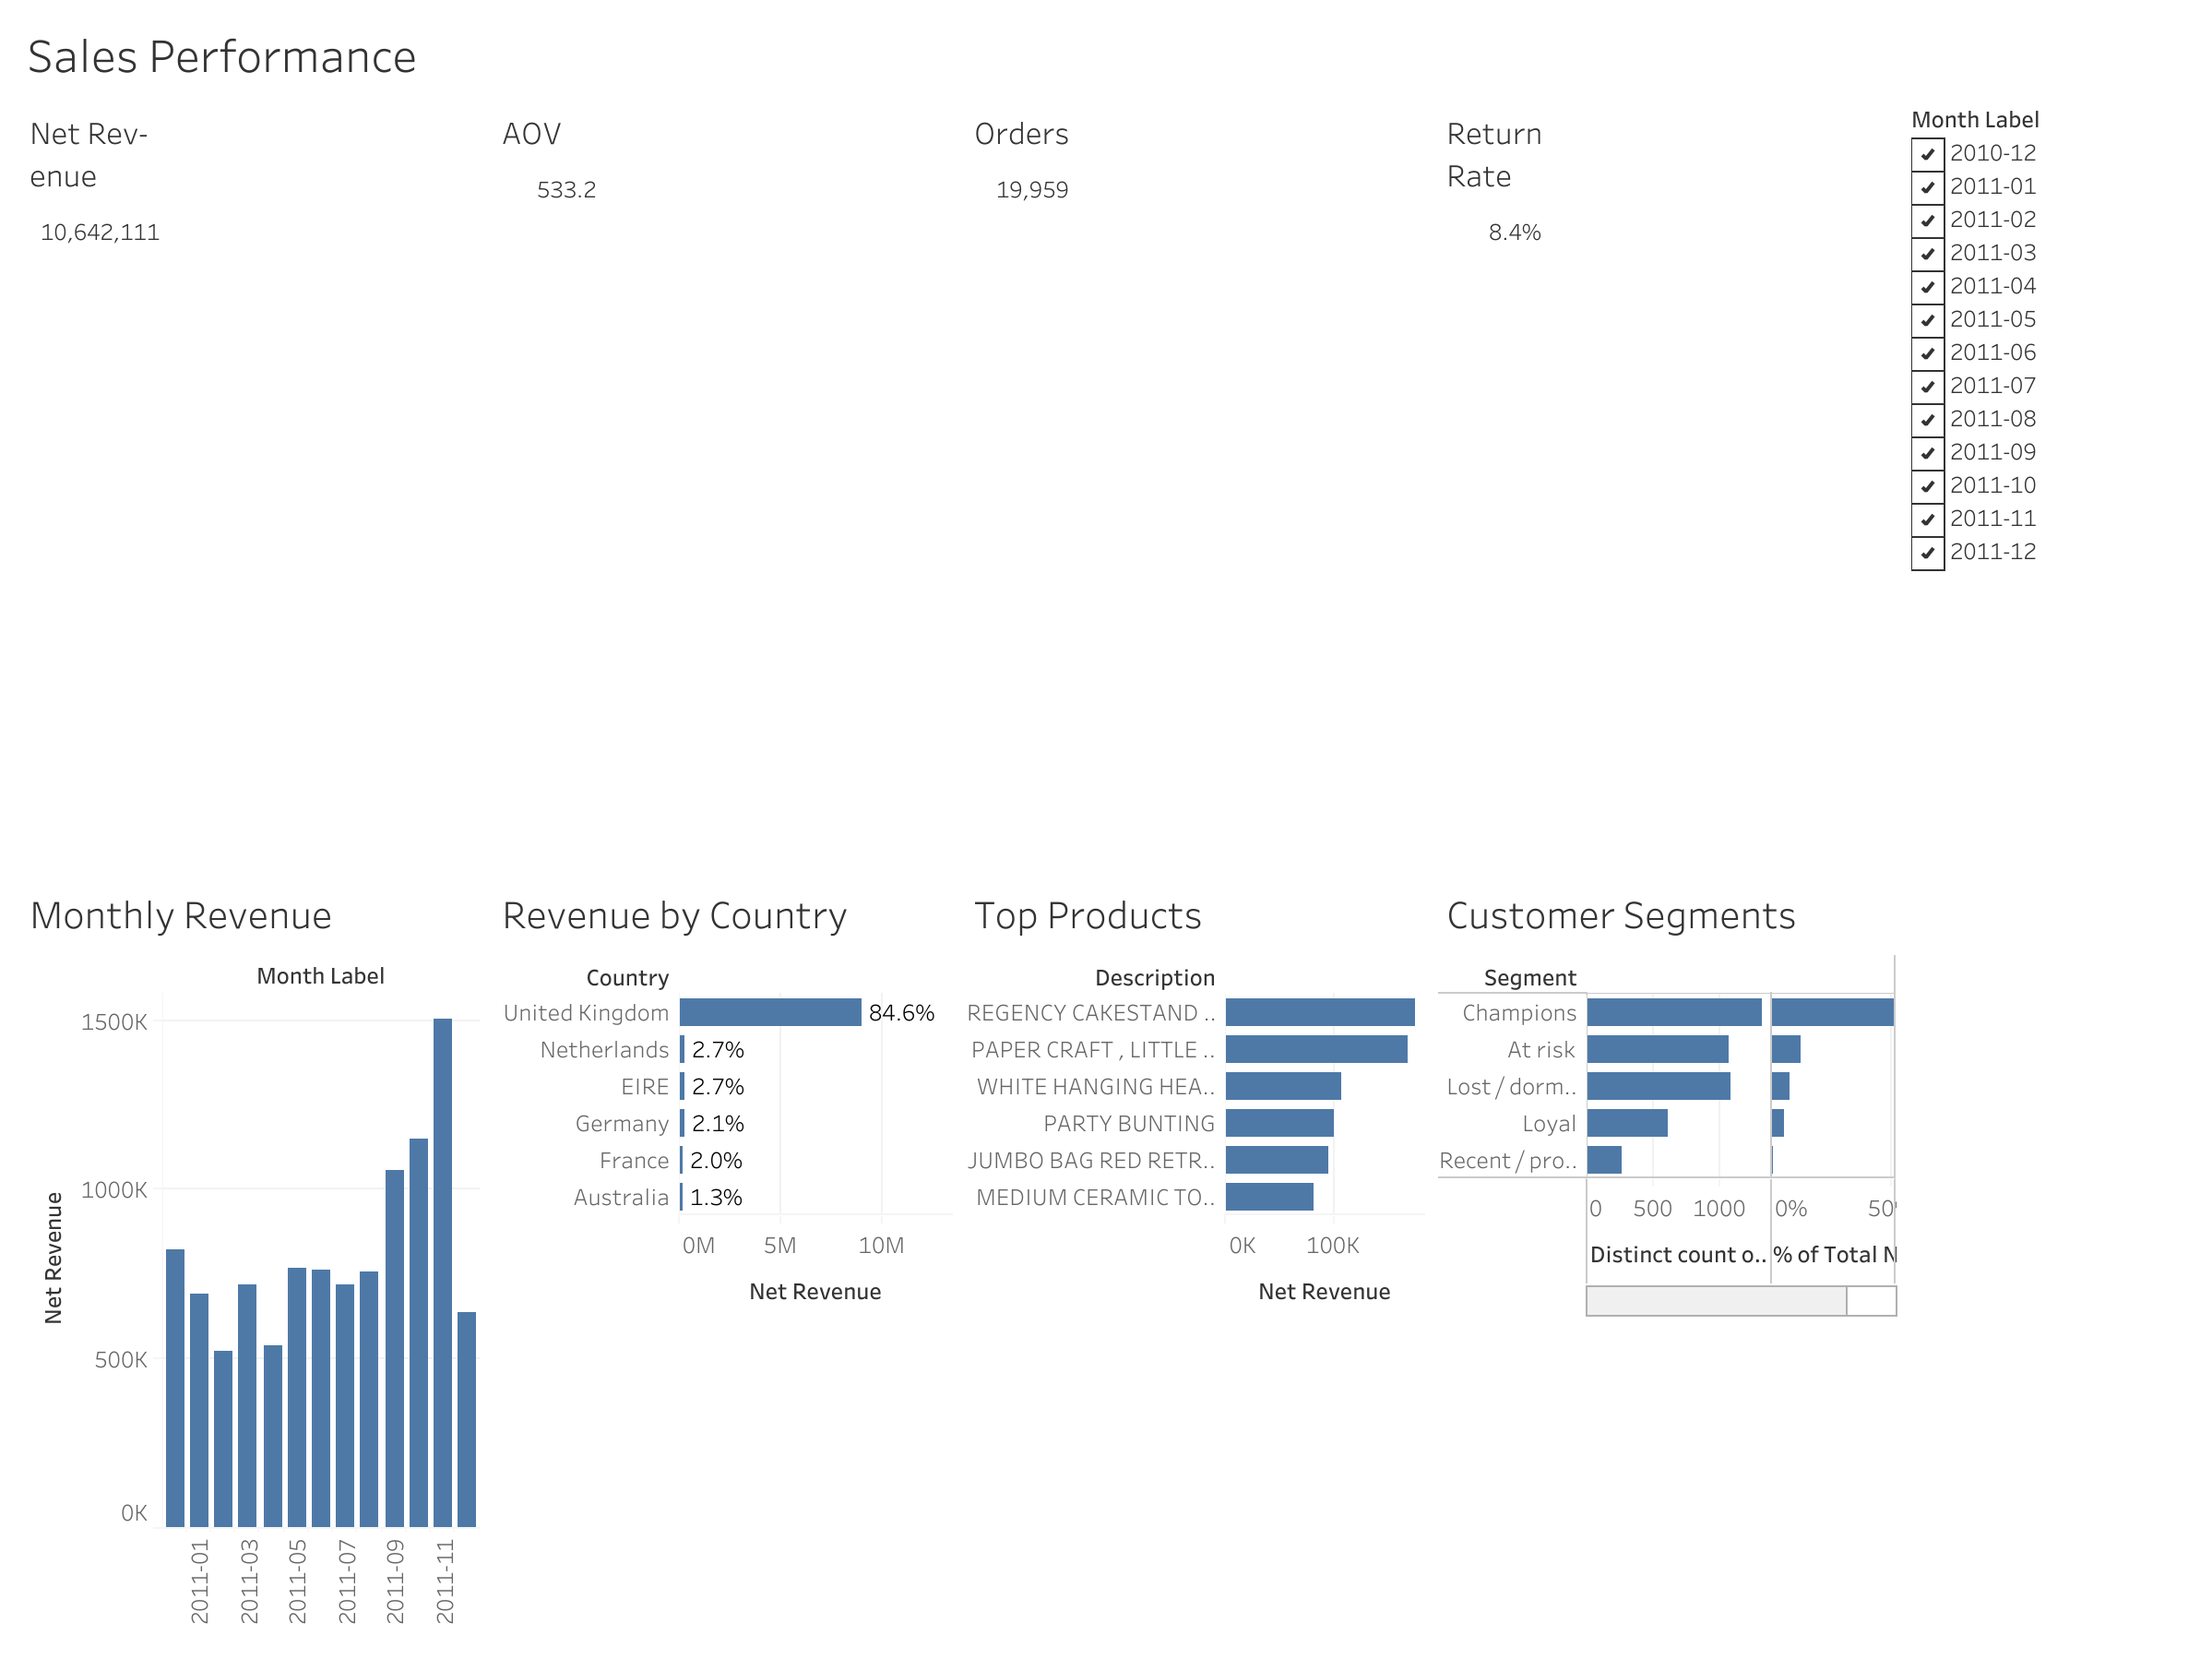
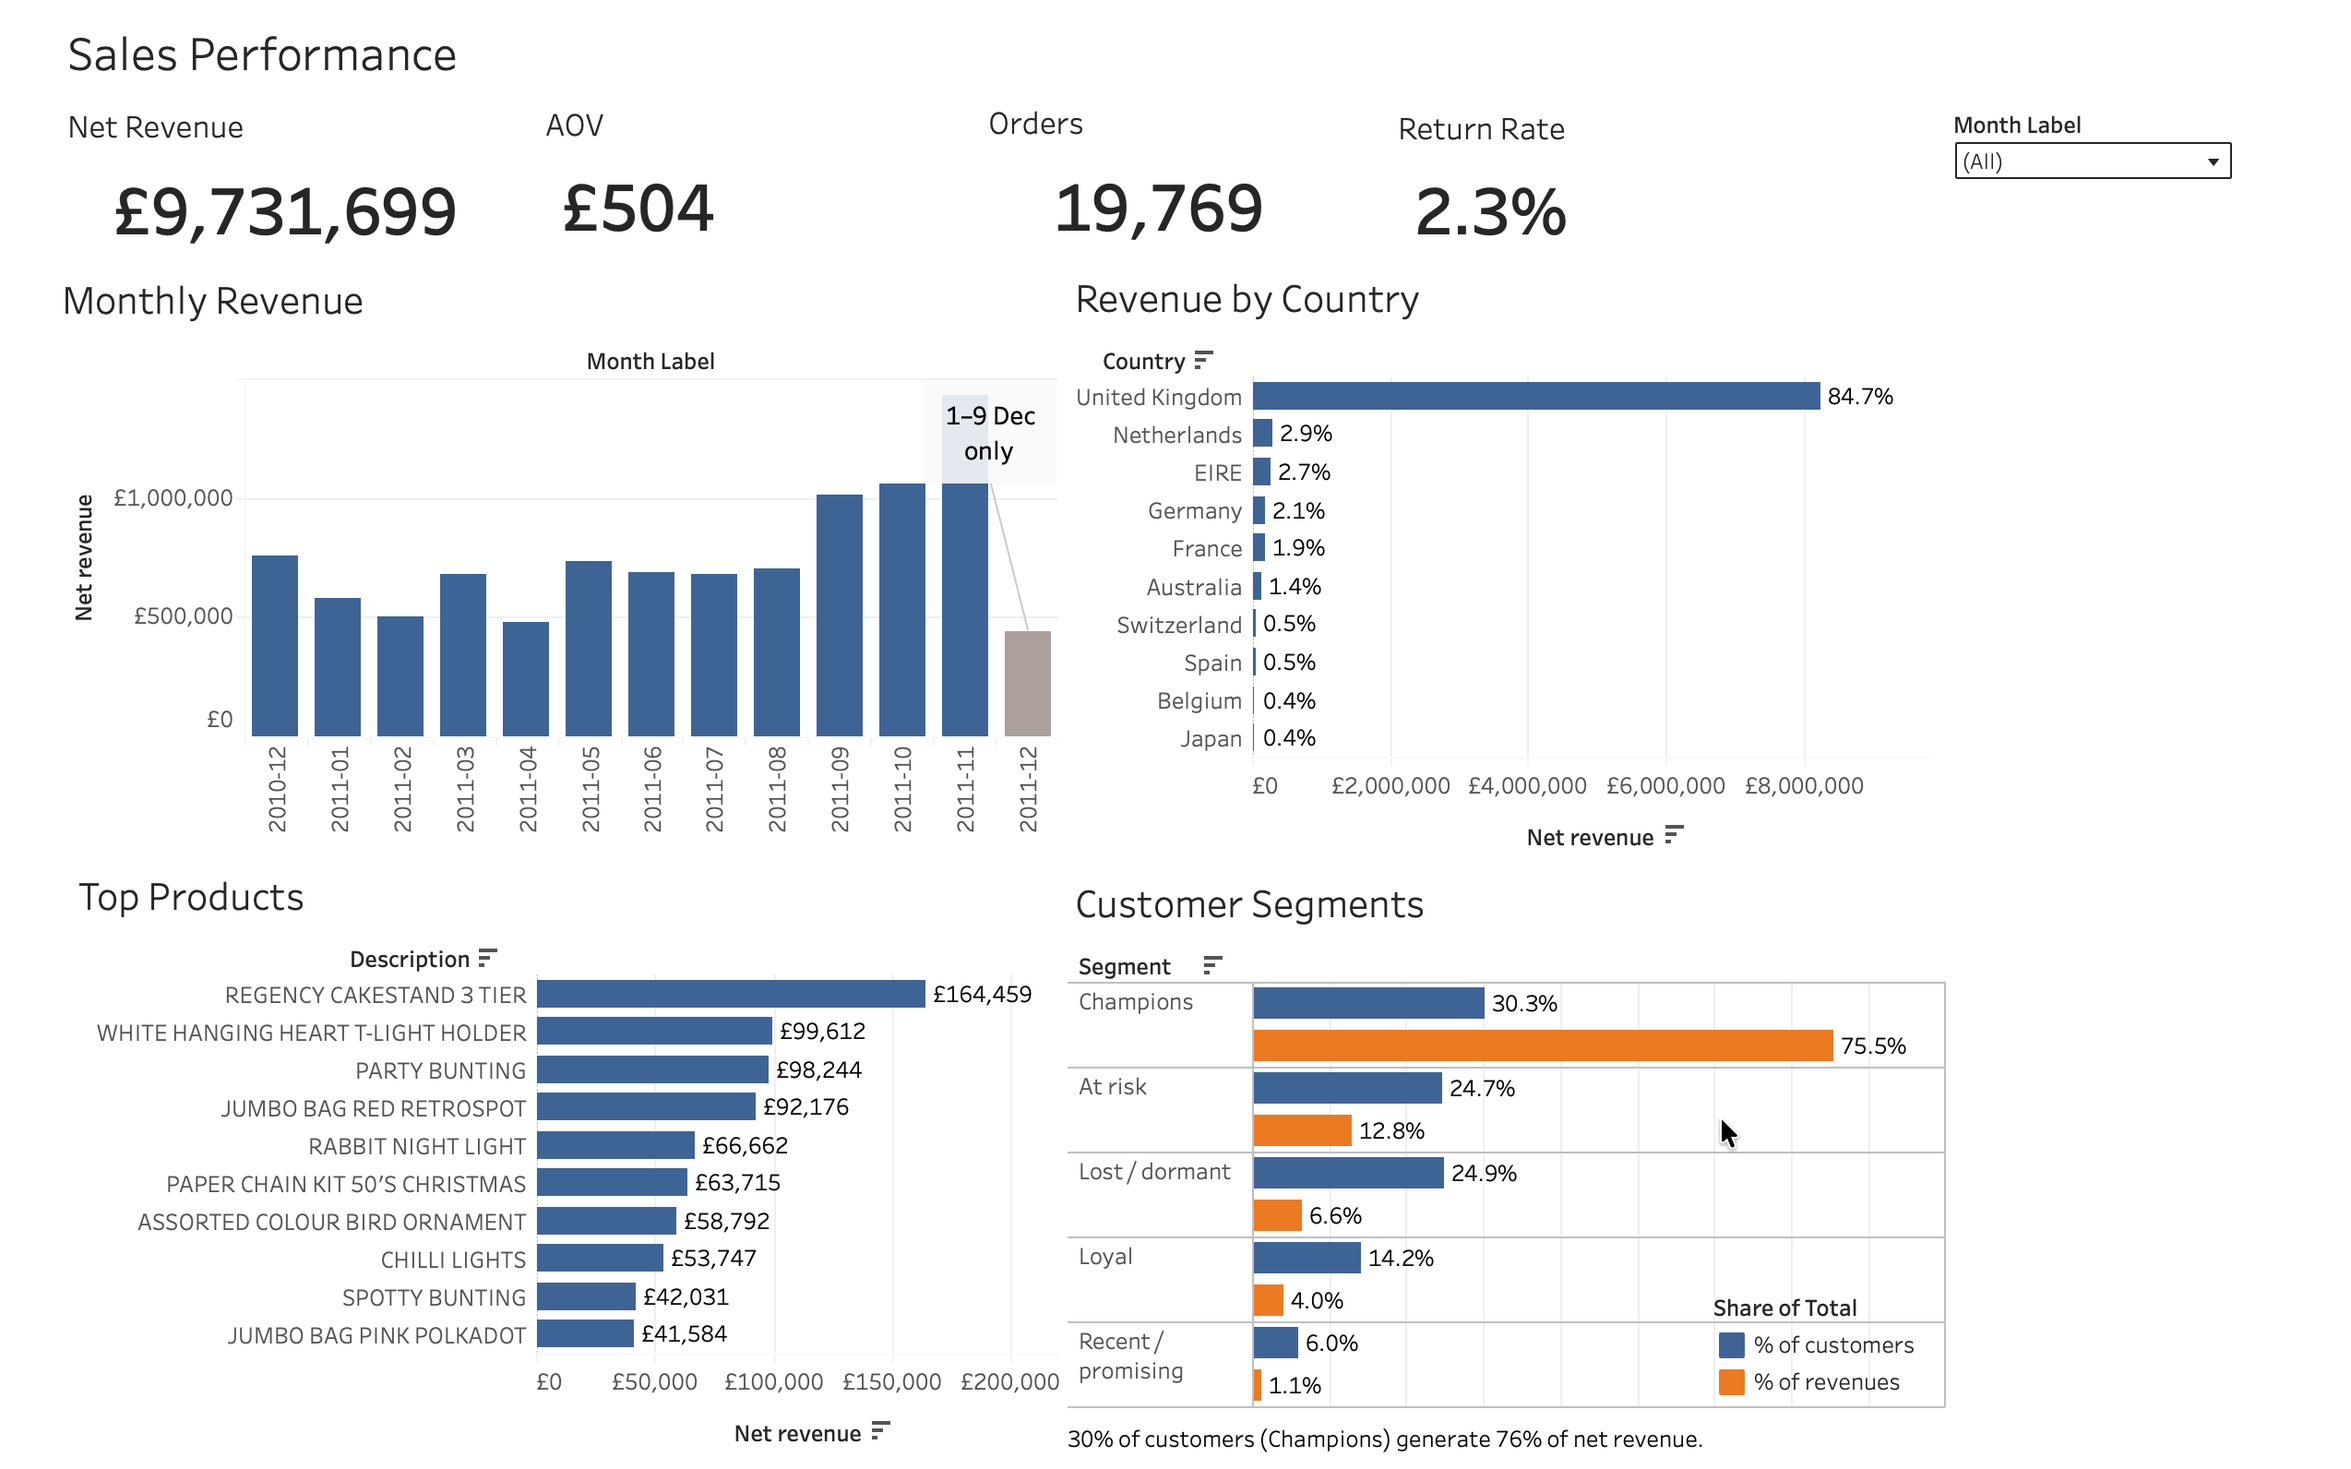
added screenshot for dashboard

diff --git a/analysis/03_build_dashboard_dataset.py b/analysis/03_build_dashboard_dataset.py
@@ -18,6 +18,7 @@ df = lines.merge(rfm, on="CustomerID", how="left")
 df["Segment"] = df["Segment"].fillna(
     df["CustomerID"].isna().map({True: "Unattributed (no CustomerID)", False: "Not segmented"}))
 df["is_return"] = df["line_type"] == "product_return"
+df["CustomerID"] = df["CustomerID"].astype("Int64")
 df["MonthLabel"] = df["InvoiceMonth"]
 
 cols = ["InvoiceNo", "StockCode", "Description", "Quantity", "UnitPrice", "Revenue", "InvoiceDate",

diff --git a/README.md b/README.md
@@ -7,7 +7,7 @@ review, cleaning rules, star-schema model, RFM segmentation and a Tableau dashbo
 
 **Live dashboard:** [Tableau Public: Sales Performance](https://public.tableau.com/app/profile/yash.dubey7502/viz/Retail-BA/SalesPerformance)
 
-<!-- Add a screenshot of the updated dashboard here: ![Dashboard](figures/sales_performance.png) -->
+![Sales Performance dashboard](figures/sales_performance.png)
 
 ## Key findings
 
